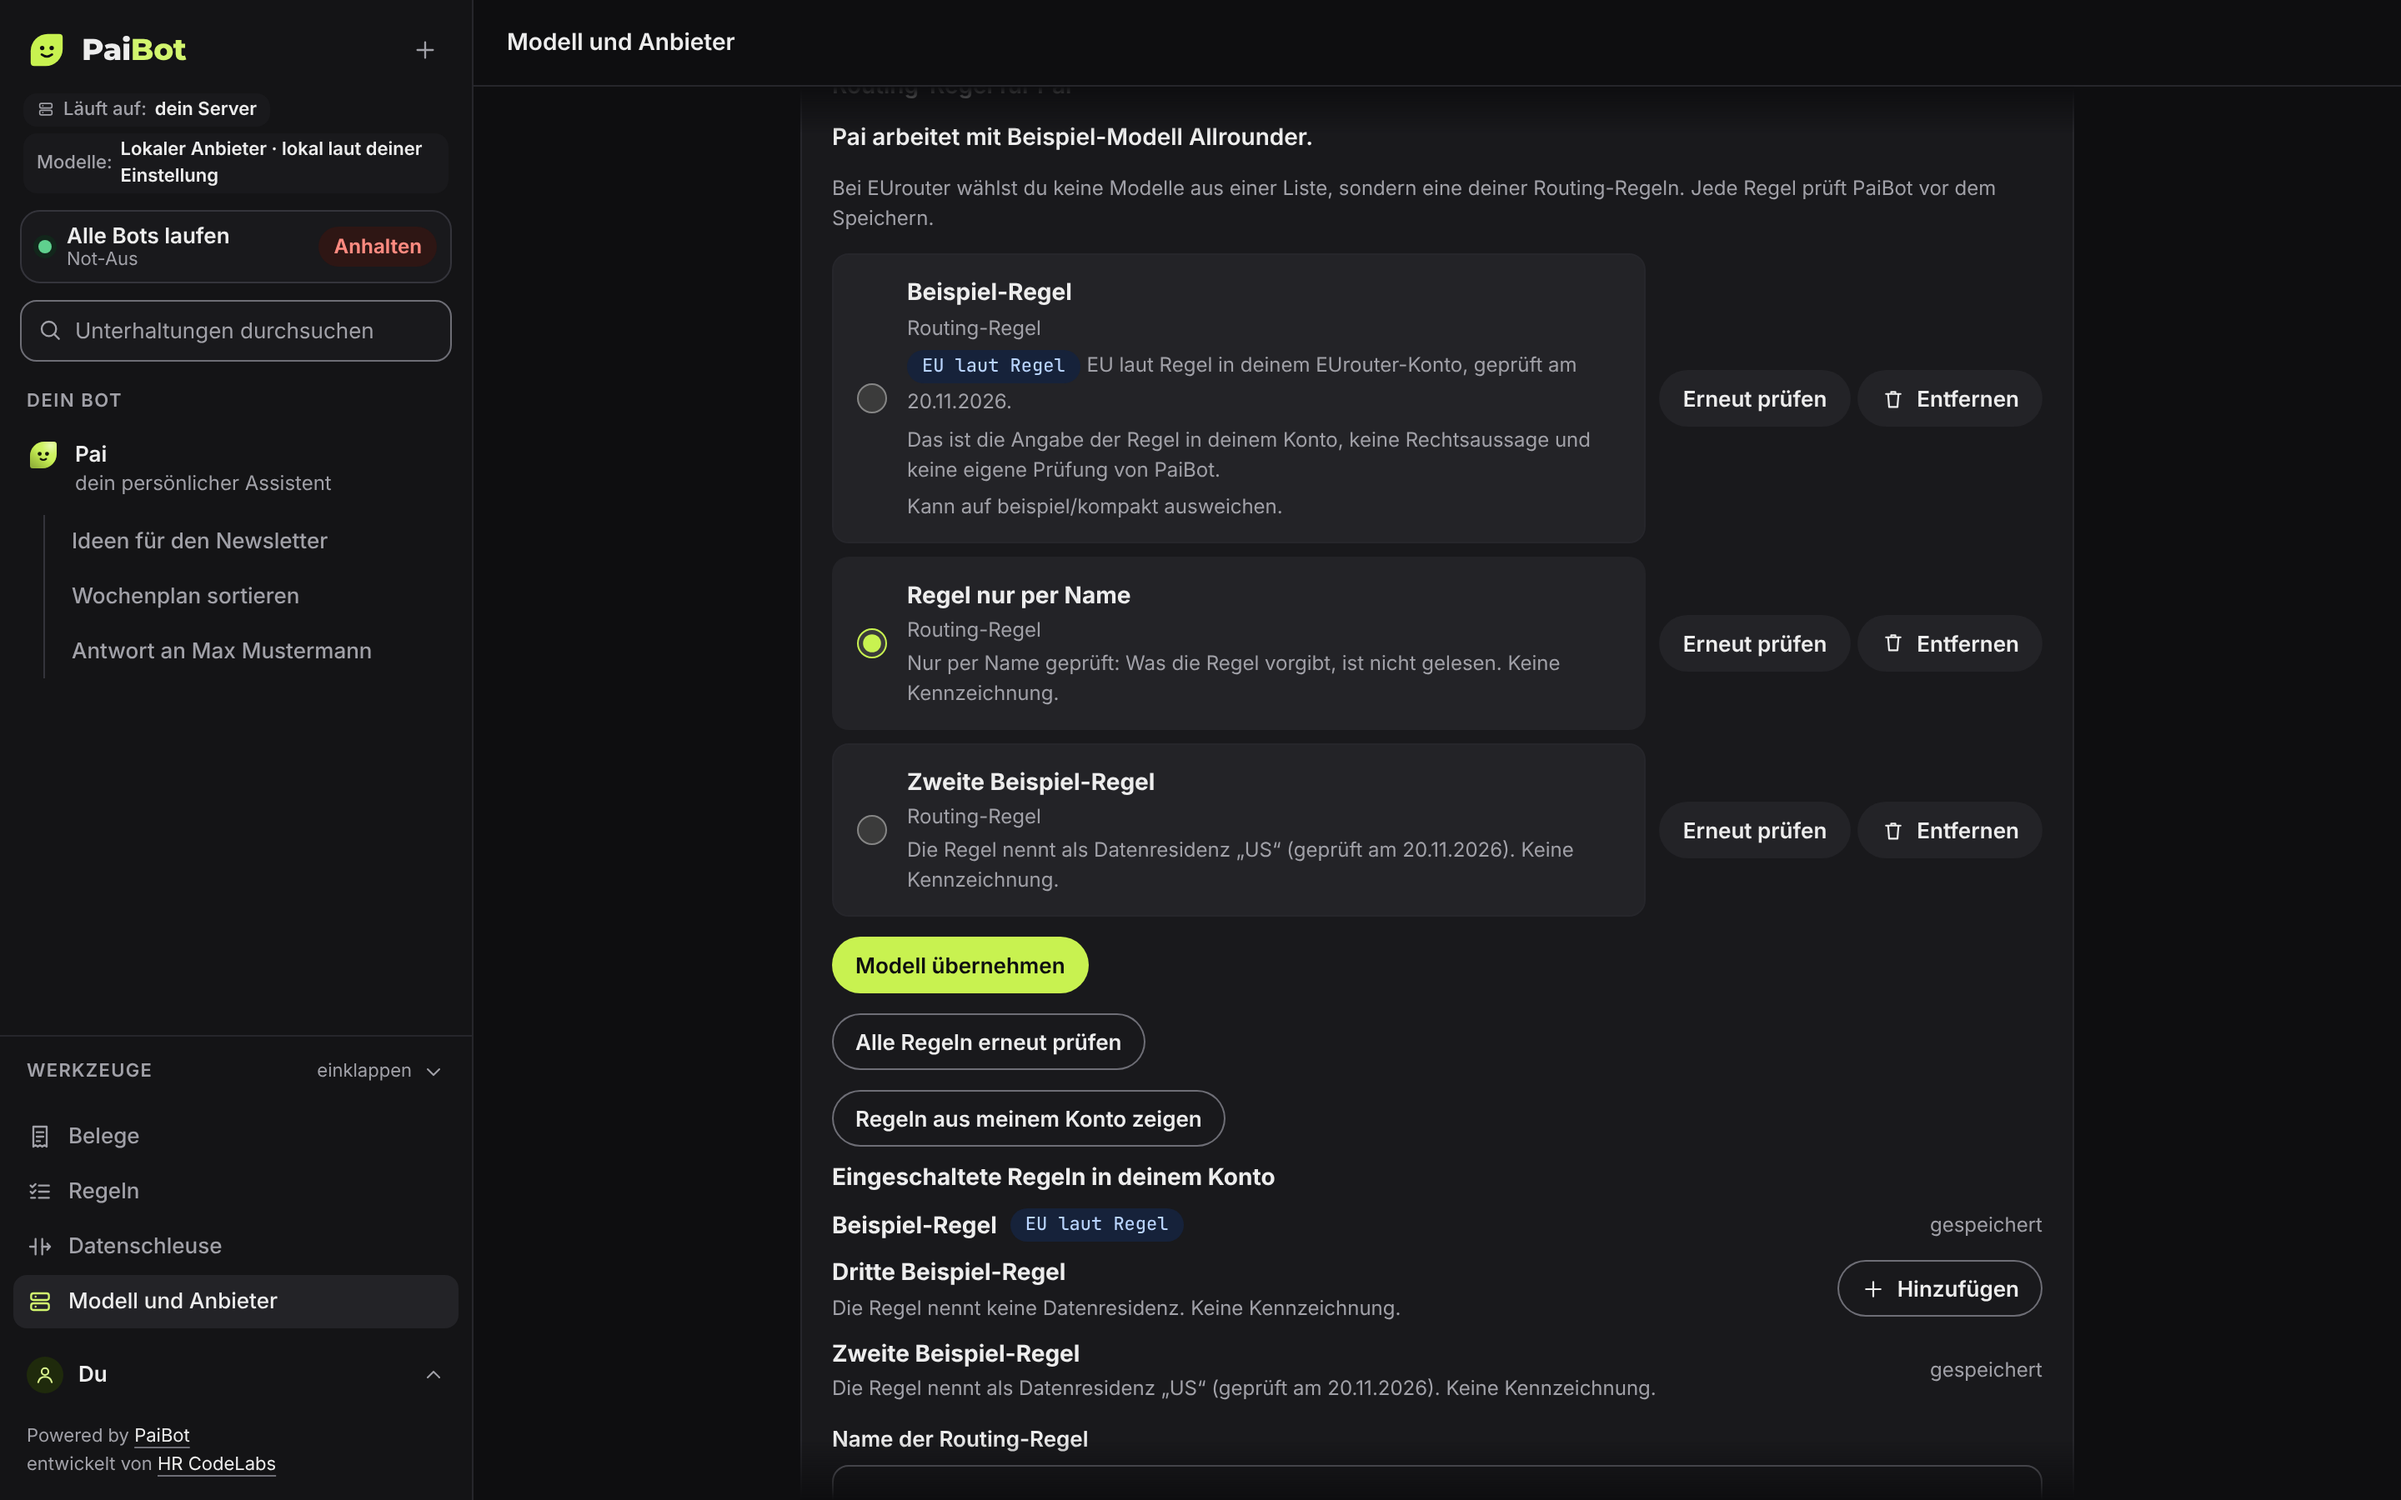
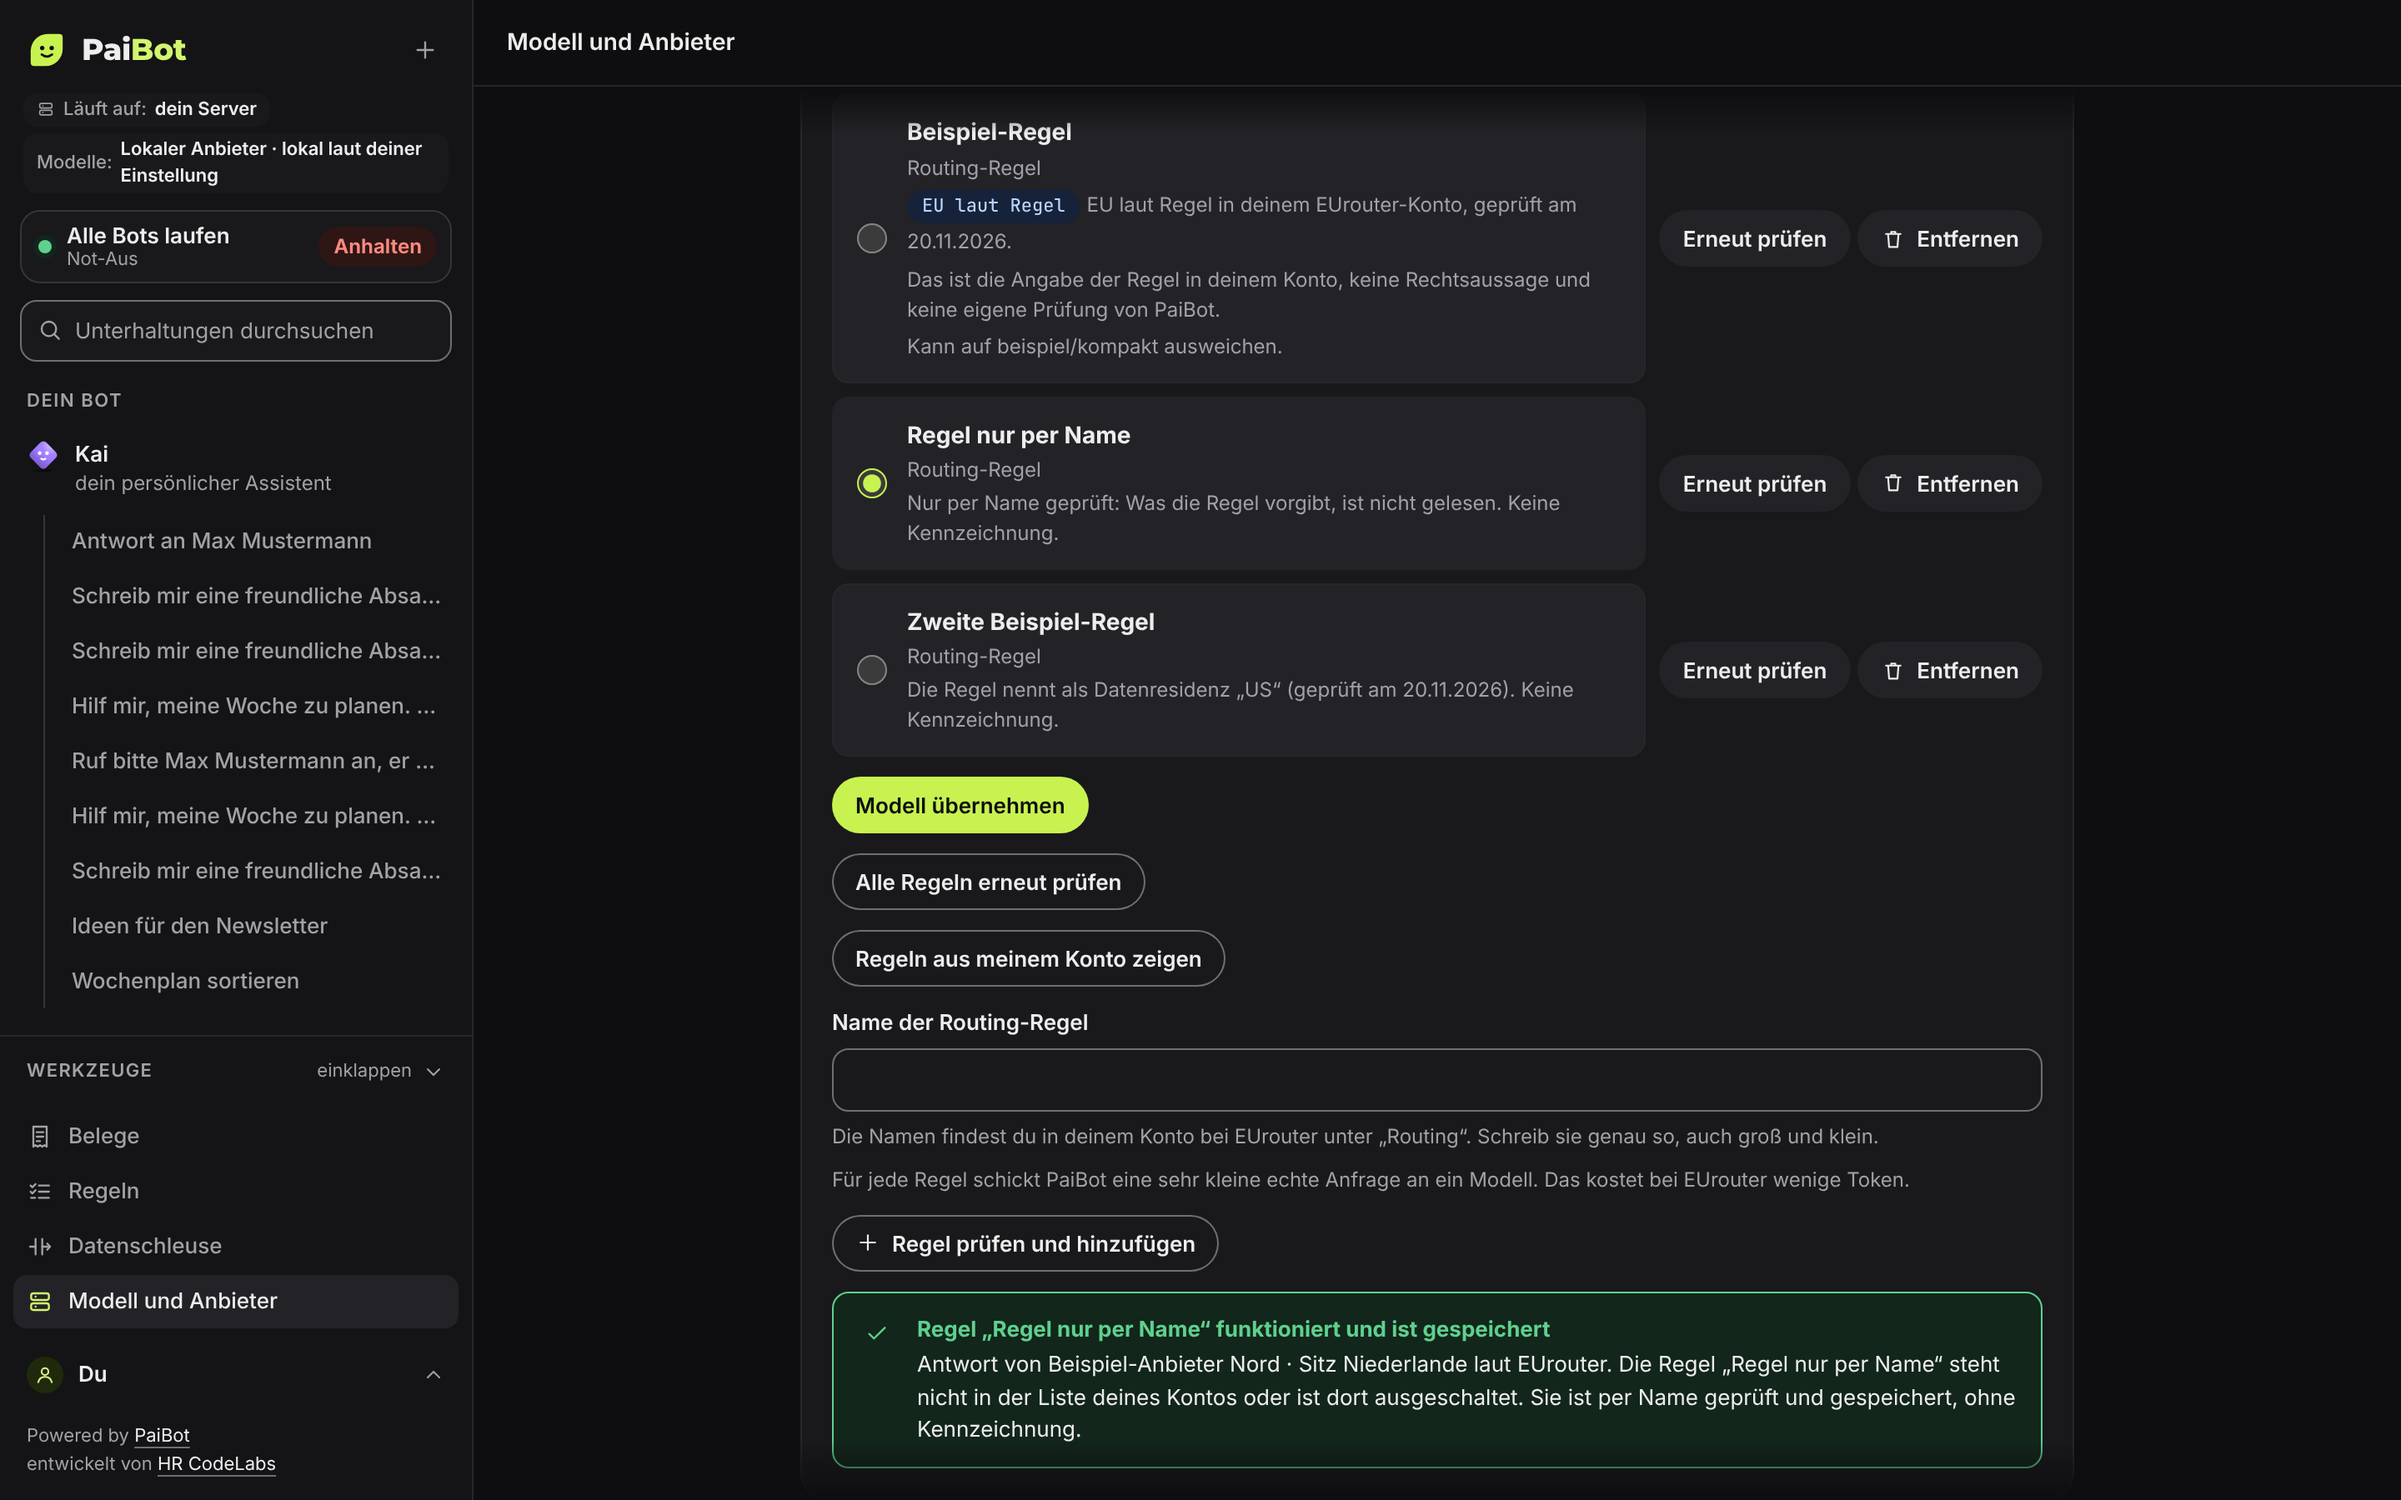
docs(anbieter): Bilder neu aufgenommen auf dem Stand von main; Aufnahmen an die Zählung der Begrenzung angepasst (#61)
- voller Lauf aller Aufnahmen, ein zweiter Lauf ergab byte-gleiche Bilder
- in der App der Bilder steht die Uhr fast still: Die Begrenzung „Verbindungstest“ (10 je Minute) läuft in
  einem Lauf nie ab; die Aufnahmen der Regeln kommen deshalb mit zehn Aufrufen aus
- Text „Erneut gelesen. Aktualisiert: N.“ (kein „1 Regeln“)
- Aufnahme-Skript nennt bei einem Fehlschlag die Fehlerantworten der App und den Text der Seite

Claude-Session: https://claude.ai/code/session_01MLo9cAeNc1r994E5agV7ky

diff --git a/packages/shared/src/i18n/de.ts b/packages/shared/src/i18n/de.ts
@@ -1840,7 +1840,7 @@ export const de = {
   "verwaltung.neu.eine.label": "Vorgaben der Regel „{name}“ erneut prüfen",
   "verwaltung.neu.alle": "Alle Regeln erneut prüfen",
   "verwaltung.neu.fehler": "Nicht erneut geprüft",
-  "verwaltung.neu.ok": "Erneut gelesen: {anzahl} Regeln aktualisiert.",
+  "verwaltung.neu.ok": "Erneut gelesen. Aktualisiert: {anzahl}.",
   "verwaltung.neu.entfernt":
     "Nicht mehr in deiner Liste: {namen}. Ihre Vorgaben sind entfernt, die Kennzeichnung entfällt.",
   "verwaltung.neu.unveraendert":

diff --git a/docs/funktion-anbieter-und-modelle.md b/docs/funktion-anbieter-und-modelle.md
@@ -134,7 +134,7 @@ Mit dem normalen Schlüssel kann PaiBot nicht lesen, was eine Regel vorgibt. Mit
     ![Karte „Routing-Regel“ mit „Zweite Beispiel-Regel“ (Datenresidenz „US“, keine Kennzeichnung) und „Regel nur per Name“ („Nur per Name geprüft“); darüber der Hinweis, dass die Regel nicht in der Liste des Kontos steht](assets/screenshots/modelle-regel-ohne-kennzeichnung.png)
 34. Klicke bei einer Regel „Erneut prüfen“ oder oben „Alle Regeln erneut prüfen“, um die Vorgaben neu zu lesen. Eine Angabe, die älter als 14 Tage ist, bleibt sichtbar, zeigt aber „zuletzt geprüft am …“ und „länger nicht geprüft“. Ist eine Regel in einer vollständig gelesenen Liste nicht mehr zu finden (oder ausgeschaltet), entfällt ihre Kennzeichnung; bei einer möglicherweise unvollständigen Liste bleibt sie unverändert.
 
-    ![Nach „Alle Regeln erneut prüfen“: Meldung „Erneut gelesen: 2 Regeln aktualisiert.“](assets/screenshots/modelle-regel-neu-pruefen.png)
+    ![Nach „Alle Regeln erneut prüfen“: Meldung „Erneut gelesen. Aktualisiert: 1.“](assets/screenshots/modelle-regel-neu-pruefen.png)
 35. Kann eine Regel ausweichen, sagt PaiBot es: „Kann auf … ausweichen“, wenn die Regel Ausweich-Modelle nennt, oder „Kann ausweichen“, wenn sie es erlaubt. Wer tatsächlich antwortet, steht an jeder Antwort. Dieselbe Regel hat in echten Aufrufen schon von verschiedenen Anbietern geantwortet.
 36. Wähle die Regel und klicke „Modell übernehmen“. Im Chat steht die Marke im Kopf und in der Zeile unter der Antwort, mit dem Datum.
 
